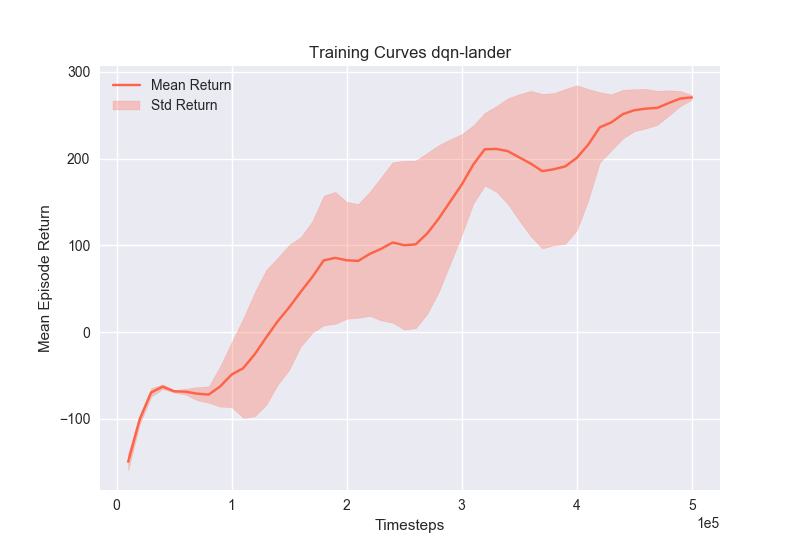
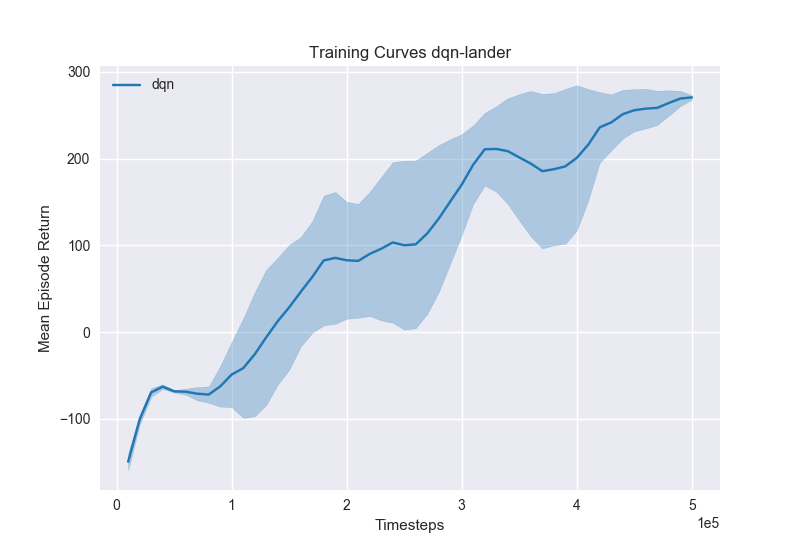
updated plotting

Changed region(s): [[0.1562, 0.1545, 0.875, 0.8345], [0.125, 0.1236, 0.2812, 0.2164]]

diff --git a/src/common/utils.py b/src/common/utils.py
@@ -5,6 +5,7 @@ import numpy as np
 import pandas as pd
 import matplotlib.pyplot as plt
 import matplotlib.style
+from matplotlib import cm
 
 
 matplotlib.style.use("seaborn")
@@ -34,14 +35,18 @@ def set_global_seeds(seed, debug):
 def plot_training_curves(experiments, save_to="", title="Training Curves"):
     """
 
-    :param experiments: a list of paths to experiment directories to plot.
+    :param experiments: a dict of
+    keys = labels,
+    values = paths to experiment directories to plot.
     An experiment directory is expected to have experiment_dir/1/logs/logs.txt, experiment_dir/2/logs/logs.txt, ...
     where 1, 2, ... are the seeds run for that experiment that will be averaged over
     :param save: if True saves to `experiments_dir`/Figure.png
     :return:
     """
+    # list of colours to plot in
+    cols = cm.tab10.colors
 
-    for experiment in experiments:
+    for i, (label, experiment) in enumerate(experiments.items()):
         # average over the experiment seeds
         data = []
         timesteps = []
@@ -61,15 +66,15 @@ def plot_training_curves(experiments, save_to="", title="Training Curves"):
         mean_return = np.mean(data, axis=0)
         std_return = np.std(data, axis=0)
         timesteps = np.mean(timesteps, axis=0)
-        plt.plot(timesteps, mean_return, label="Mean Return", color="tomato")
+        plt.plot(timesteps, mean_return, color=cols[i], label=label)
         plt.fill_between(timesteps, mean_return - std_return, mean_return + std_return,
-                         alpha=0.3, label="Std Return", color="tomato")
+                         alpha=0.3, color=cols[i])
 
     plt.title(title)
     plt.ylabel("Mean Episode Return")
     plt.xlabel("Timesteps")
     plt.ticklabel_format(style='sci', axis='x', scilimits=(0,0))
-    plt.legend()
+    plt.legend(loc="best")
 
     if save_to != "":
         plt.savefig(save_to)

diff --git a/run/compare/compare.py b/run/compare/compare.py
@@ -1,0 +1,18 @@
+import os
+
+from src.common.utils import plot_training_curves
+
+
+def compare_cartpole():
+    here_dir = os.path.dirname(os.path.realpath(__file__))
+    run_dir = os.path.dirname(here_dir)
+    # AC logs
+    ac = os.path.join(run_dir, "ac", "experiments", "ac-cartpole")
+    # VPG logs
+    vpg = os.path.join(run_dir, "vpg", "experiments", "vpg-cartpole")
+
+    plot_training_curves({"ac": ac, "vpg": vpg})
+
+
+if __name__ == "__main__":
+    compare_cartpole()

diff --git a/run/dqn/plot.py b/run/dqn/plot.py
@@ -15,7 +15,7 @@ def plot_experiment(exp_name, save):
     if save:
         save_to = os.path.join(experiments_dir, "Figure.png")
 
-    plot_training_curves([experiments_dir], save_to=save_to, title="Training Curves {}".format(exp_name))
+    plot_training_curves({"dqn":experiments_dir}, save_to=save_to, title="Training Curves {}".format(exp_name))
 
 
 if __name__ == "__main__":

diff --git a/run/vpg/plot.py b/run/vpg/plot.py
@@ -15,7 +15,7 @@ def plot_experiment(exp_name, save):
     if save:
         save_to = os.path.join(experiments_dir, "Figure.png")
 
-    plot_training_curves([experiments_dir], save_to=save_to, title="Training Curves {}".format(exp_name))
+    plot_training_curves({"vpg":experiments_dir}, save_to=save_to, title="Training Curves {}".format(exp_name))
 
 
 if __name__ == "__main__":

diff --git a/run/ac/plot.py b/run/ac/plot.py
@@ -15,7 +15,7 @@ def plot_experiment(exp_name, save):
     if save:
         save_to = os.path.join(experiments_dir, "Figure.png")
 
-    plot_training_curves([experiments_dir], save_to=save_to, title="Training Curves {}".format(exp_name))
+    plot_training_curves({"ac":experiments_dir}, save_to=save_to, title="Training Curves {}".format(exp_name))
 
 
 if __name__ == "__main__":
